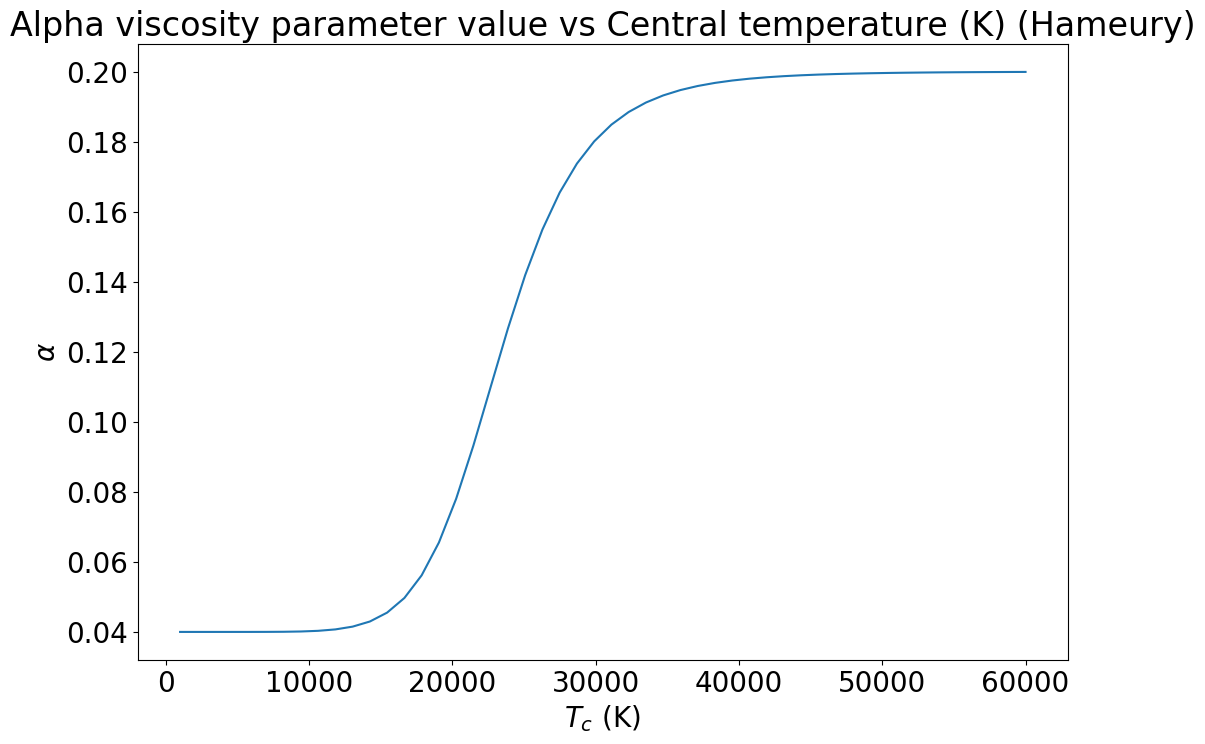
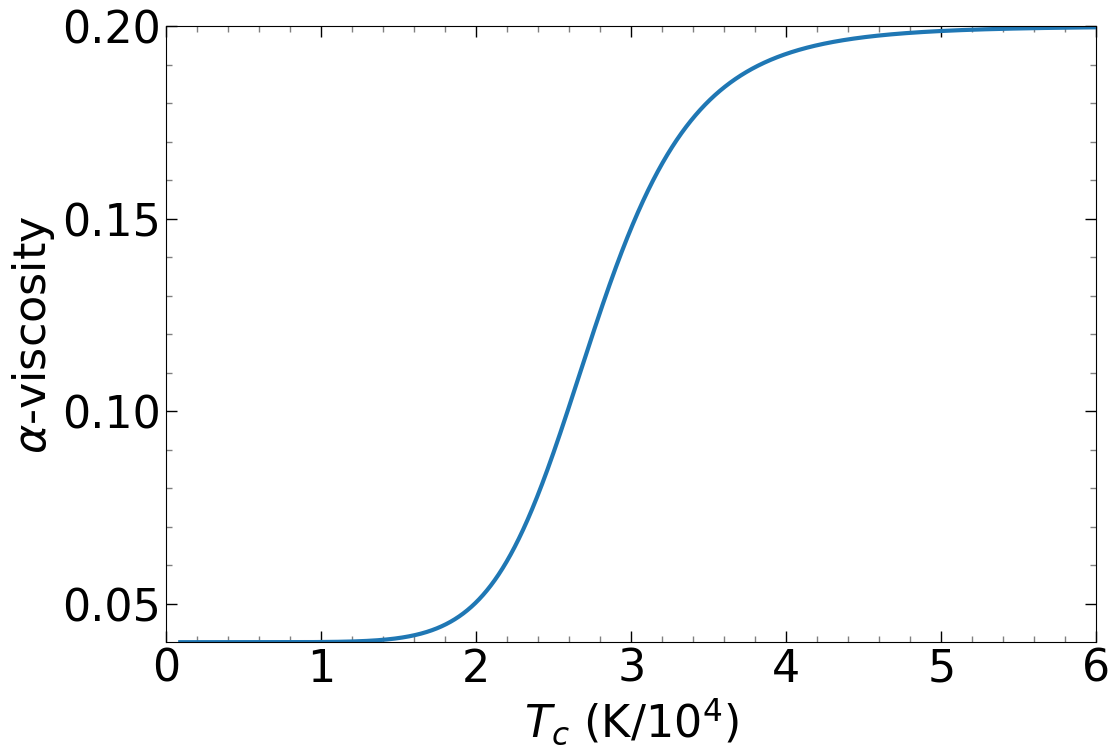
Add files via upload

diff --git a/bh_model_comparison_graphs.md b/bh_model_comparison_graphs.md
@@ -1,0 +1,204 @@
+```python
+%run GPU_opacity_eqs.ipynb
+%run GPU_cre_equations_bath_params.ipynb
+%run GPU_cr_graph_normal_bh.ipynb
+%run diskequations_SS_bath_params.ipynb
+%run GPU_graphformulae_variablealpha_bath.ipynb
+```
+
+
+```python
+%%time
+font = {'weight' : 'normal',
+        'size'   : 20}
+
+plt.rc('font', **font)
+plt.figure(figsize=(12, 8))
+#plt.title("Plot of T wrt r")
+plt.xlabel("r (cm)")
+plt.ylabel("T (K))")
+plt.yscale("log")
+plt.xscale("log")
+plt.xlim(r_g(M)*3, 1.48e13)
+plt.ylim(1e3, 1e8)
+
+Tmin = 1e2
+Tmax = 1e8
+r_guess = 1e8
+rho_guess = 1e-7
+NPanels_old = 10000
+NPanels_CR = 20000
+M1 = solarmass
+Md1 = 5e16
+
+Variable_plot(r_g(M)*3,1e19,M1,Md1,NPanels_old,5)
+rad_T_old_plot_2(Tmin, Tmax, 1e15, 1e-0,0.4, NPanels_old)
+rad_T_CR_plot_2(Tmin, Tmax, r_guess, rho_guess,0.4, NPanels_CR)
+
+plt.legend().remove()
+plt.legend(loc='upper right', borderpad = 0.8, title = "Opacity Type", frameon=False)
+```
+
+    CPU times: total: 4.61 s
+    Wall time: 5.24 s
+    
+
+
+
+
+    <matplotlib.legend.Legend at 0x1d5e78c9420>
+
+
+
+
+    
+![png](output_1_2.png)
+    
+
+
+
+```python
+%%time
+font = {'weight' : 'normal',
+        'size'   : 20}
+
+plt.rc('font', **font)
+plt.figure(figsize=(12, 8))
+#plt.title("Plot of h wrt r")
+plt.xlabel("r (cm)")
+plt.ylabel("h (cm))")
+plt.yscale("log")
+plt.xscale("log")
+
+plt.xlim(r_g(M)*3, 1e12)
+plt.ylim(5e4, 1e11)
+
+Tmin = 1e2
+Tmax = 1e8
+r_guess = 1e8
+rho_guess = 1e-7
+NPanels_old = 10000
+NPanels_CR = 20000
+M1 = solarmass
+Md1 = 5e16
+
+Variable_plot(r_g(M)*3,1e19,M1,Md1,NPanels_old,1)
+rad_h_plot(Tmin, Tmax, r_guess, rho_guess,0.4, NPanels_CR)
+rad_h_old_plot(Tmin, Tmax, r_guess, rho_guess,0.4, NPanels_old)
+
+plt.legend().remove()
+plt.legend(loc='upper left', borderpad = 0.8, title = "Opacity Type", frameon=False)
+```
+
+    CPU times: total: 6.36 s
+    Wall time: 7.15 s
+    
+
+
+
+
+    <matplotlib.legend.Legend at 0x1d5e34412a0>
+
+
+
+
+    
+![png](output_2_2.png)
+    
+
+
+
+```python
+%%time
+font = {'weight' : 'normal',
+        'size'   : 46}
+
+plt.rc('font', **font)
+plt.figure(figsize=(20, 14))
+#plt.title("Plot of T wrt Σ")
+plt.xlabel(r"$\Sigma$ (g cm$^{-2}$)")
+plt.ylabel(r"$T$ (K)")
+plt.yscale("log")
+plt.xscale("log")
+plt.minorticks_on()
+plt.tick_params(axis='both', which='major', direction='in', length=24, width=2, colors='black')
+plt.tick_params(axis='both', which='minor', direction='in', length=12, width=2, colors='gray')
+plt.tick_params(axis='both', which='both', top=True, right=True, direction='in')
+plt.tick_params(labeltop=False, labelright=False)  # Hide labels on top and right
+
+plt.xlim(0.9e1, 1.1e3)
+plt.ylim(.9e3, 1.1e5)
+
+Tmin = 1e1
+Tmax = 1e6
+r_guess = 1e11
+rho_guess = 1e-8
+NPanels = 35000
+
+plot1 = T_Σ_plot(Tmin, Tmax, r_guess, rho_guess,0.04, NPanels)[0]
+#T_Σ_plot(Tmin, Tmax, r_guess, rho_guess,0.12, NPanels)
+plot2 = T_Σ_plot(Tmin, Tmax, r_guess, rho_guess,0.2, NPanels)[0]
+plot3 = T_Σ_alphavar_plot(Tmin, Tmax, r_guess, rho_guess, NPanels)[0]
+plot1.set_linewidth(5)  # Set linewidth for line1
+plot2.set_linewidth(5)  # Set linewidth for line2
+plot3.set_linewidth(5)  # Set linewidth for line1
+plt.legend(loc='upper right', borderpad = 0.8, title = r"$\alpha$", frameon=False)
+```
+
+    CPU times: total: 24.2 s
+    Wall time: 28.9 s
+    
+
+
+
+
+    <matplotlib.legend.Legend at 0x1830e995c00>
+
+
+
+
+    
+![png](output_3_2.png)
+    
+
+
+
+```python
+vTlogarray = np.linspace(np.log10(Tmin),np.log10(Tmax),NPanels+1)
+vTarray = 10**vTlogarray
+    
+vTlogmidpoints = vTlogarray + (vTlogarray[1]-vTlogarray[0])/2
+vTlogmidpoints = np.delete(vTlogmidpoints,len(vTlogmidpoints)-1)  
+vTmidpoints = 10**vTlogmidpoints
+    
+valpha_var = np.empty(len(vTmidpoints))
+valpha_var = alpha_visc(vTmidpoints)
+```
+
+
+```python
+def plot_alphat(T_c,alpha_v):
+    y_values = alpha_v
+    x_values = T_c/1e4
+    plt.figure(figsize=(12, 8))
+    plt.plot(x_values, y_values,linewidth=3)
+    plt.xlabel(r'$T_c$ (K/$10^4$)')
+    plt.ylabel(r'$\alpha$-viscosity')
+    plt.minorticks_on()
+    plt.tick_params(axis='both', which='major', direction='in', length=8, width=1, colors='black')
+    plt.tick_params(axis='both', which='minor', direction='in', length=4, width=1, colors='gray')
+    plt.tick_params(axis='both', which='both', top=True, right=True, direction='in')
+    plt.tick_params(labeltop=False, labelright=False)  # Hide labels on top and right
+    plt.xlim(0,6)
+    plt.ylim(0.04,0.2)
+    plt.show()
+
+# Call the plotting function
+plot_alphat(vTmidpoints,valpha_var)
+```
+
+
+    
+![png](output_5_0.png)
+    
+
